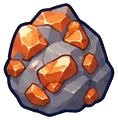
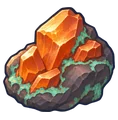
Differentiate resource artwork and retire ornamental arches and junk

diff --git a/src/render/sprites.js b/src/render/sprites.js
@@ -20,7 +20,7 @@ import { REGION_GIVERS } from '../data/regionQuests.js';
 import { RESIDENTS } from '../data/consequences.js';
 import { PORTRAIT_CROPS } from '../data/portraitcrops.js';
 import { BESTIARY_SPECIES, BESTIARY_BOSSES } from '../data/bestiary.js';
-import { OBJECTS } from '../data/objects.js';
+import { GENERATION_ONLY_SCENERY, OBJECTS } from '../data/objects.js';
 import { drawDiveSpot } from './diveart.js';
 import { drawDigSite, drawRestoreBench } from './digart.js';
 
@@ -2660,7 +2660,7 @@ const WORLD_ART = {
   'obj-stall_food': [56, 50, 16], 'obj-stall_market': [56, 50, 16], 'obj-stall_gem': [56, 50, 16],
   'obj-agility_course': [60, 48, 16], 'obj-agility_balance': [50, 34, 15], 'obj-agility_net': [46, 46, 16],
   'obj-agility_rope': [44, 46, 16], 'obj-agility_ledge': [44, 42, 16], 'obj-agility_zip': [48, 46, 16],
-  'obj-wall': [40, 36, 15], 'obj-ruin': [44, 44, 15], 'obj-fence': [40, 34, 15], 'obj-bush': [34, 30, 14],
+  'obj-wall': [40, 36, 15], 'obj-fence': [40, 34, 15], 'obj-bush': [34, 30, 14],
   'obj-flower': [28, 26, 13], ...Object.fromEntries([1, 2, 3].flatMap((n) => [[`obj-flower-${n}`, [28, 26, 13]], [`obj-bush-${n}`, [34, 30, 14]]])),
   'obj-palm': [50, 66, 15], 'obj-lamp': [24, 54, 15], 'obj-sign': [28, 38, 15],
   'obj-fishing_spot': [42, 30, 12], 'obj-rod_spot': [42, 34, 12], 'obj-sea_rod_spot': [42, 34, 12],
@@ -2707,7 +2707,7 @@ const WORLD_ART = {
   ...Object.fromEntries([0, 1, 2, 3].map((i) => [`obj-fire-${i}`, [32, 42, 14]])),
   ...Object.fromEntries([0, 1, 2, 3, 4].map((i) => [`obj-farm_patch-${i}`, [42, 36, 15]])),
   // Landmarks (landmarks.js): drawn across their footprint, a little wider than it.
-  ...Object.fromEntries(Object.entries(OBJECTS).filter(([, d]) => d.footprint).map(([id, d]) => [`obj-${id}`, [d.footprint[0] * 32 * (d.artScale || 1.1), 999, 16]])),
+  ...Object.fromEntries(Object.entries(OBJECTS).filter(([id, d]) => d.footprint && !GENERATION_ONLY_SCENERY.has(id)).map(([id, d]) => [`obj-${id}`, [d.footprint[0] * 32 * (d.artScale || 1.1), 999, 16]])),
   // Set dressing: one-tile props, most fitted in a 40 px box, a few taller or smaller.
   ...Object.fromEntries(Object.entries(OBJECTS).filter(([, d]) => d.prop).map(([id]) => [`obj-${id}`, [40, 40, 15]])),
   ...Object.fromEntries(Object.entries({
@@ -3574,30 +3574,6 @@ function scenery(ctx, objId, cx, cy, time) {
       ctx.fillStyle = '#caa15a'; rr(ctx, cx - 11, cy - 12, 22, 11, 2); ctx.fill(); line(ctx, OUTLINE, 1.5);
       ctx.strokeStyle = 'rgba(90,58,28,0.7)'; ctx.lineWidth = 1;
       ctx.beginPath(); ctx.moveTo(cx - 7, cy - 8); ctx.lineTo(cx + 7, cy - 8); ctx.moveTo(cx - 7, cy - 5); ctx.lineTo(cx + 5, cy - 5); ctx.stroke();
-      return;
-    }
-    case 'ruin': {
-      drawShadow(ctx, cx, cy + 11, 15, 4.5);
-      // fallen rubble blocks
-      ctx.fillStyle = '#9a948a';
-      rr(ctx, cx - 13, cy + 3, 9, 8, 1.5); ctx.fill(); line(ctx, OUTLINE, 1.2);
-      rr(ctx, cx + 4, cy + 5, 10, 6, 1.5); ctx.fill(); line(ctx, OUTLINE, 1.2);
-      // broken pillar with a jagged snapped top
-      ctx.fillStyle = '#aaa49a';
-      path(ctx, () => { ctx.moveTo(cx - 5, cy + 11); ctx.lineTo(cx - 5, cy - 9); ctx.lineTo(cx - 2, cy - 13); ctx.lineTo(cx + 1, cy - 8); ctx.lineTo(cx + 3, cy - 12); ctx.lineTo(cx + 4.5, cy + 11); });
-      ctx.fill(); line(ctx, OUTLINE, 1.4);
-      // shaded right face + a brighter lit left edge
-      ctx.fillStyle = 'rgba(20,20,26,0.2)'; rr(ctx, cx + 1, cy - 8, 3.5, 19, 1); ctx.fill();
-      ctx.fillStyle = 'rgba(255,255,255,0.14)'; rr(ctx, cx - 5, cy - 9, 1.6, 20, 0.8); ctx.fill();
-      // cracks + brick courses
-      ctx.strokeStyle = 'rgba(34,48,74,0.45)'; ctx.lineWidth = 0.8;
-      ctx.beginPath(); ctx.moveTo(cx - 3, cy - 5); ctx.lineTo(cx - 1, cy - 1); ctx.lineTo(cx - 3, cy + 4);
-      ctx.moveTo(cx - 5, cy + 1); ctx.lineTo(cx + 4, cy + 1); ctx.moveTo(cx - 11, cy + 7); ctx.lineTo(cx - 6, cy + 7); ctx.stroke();
-      // creeping moss
-      ctx.fillStyle = 'rgba(74,128,58,0.6)';
-      ctx.beginPath(); ctx.arc(cx - 3.5, cy + 9, 1.6, 0, Math.PI * 2); ctx.fill();
-      ctx.beginPath(); ctx.arc(cx + 8, cy + 5.5, 1.4, 0, Math.PI * 2); ctx.fill();
-      ctx.beginPath(); ctx.arc(cx - 11, cy + 4.5, 1.2, 0, Math.PI * 2); ctx.fill();
       return;
     }
     default: {

diff --git a/src/data/bestiary.js b/src/data/bestiary.js
@@ -56,7 +56,7 @@ export const BESTIARY_SPECIES = [
     look: 'A wispy figure made of reservoir water and mist, translucent teal with ripples for a face, lily pads and duckweed stuck to its flowing tail and droplets falling off its hands.' },
   // ---- Sentosa Beach ----
   { name: 'Fiddler crab', plural: 'Fiddler crabs', sprite: 'crab', color: '#e0a040', zone: 'Sentosa Beach', aggro: false, levels: [8, 20, 34],
-    drop: { id: 'seaweed', min: 1, max: 3, weight: 10 }, borrow: 'mud_crab', tint: 'sepia(1) saturate(3) hue-rotate(-10deg) brightness(1.1)',
+    drop: { id: 'coins', min: 2, max: 6, weight: 10 }, borrow: 'mud_crab', tint: 'sepia(1) saturate(3) hue-rotate(-10deg) brightness(1.1)',
     lore: 'It waves its one giant claw to impress, or to warn you off its burrow. Mostly to warn you off.',
     look: 'Tiny sand-coloured crab with a blue-and-orange shell and ONE enormous bright orange claw held up proudly (the other claw tiny), tall stalk eyes and a smug little face.' },
   { name: 'Sentosa peafowl', plural: 'Sentosa peafowl', sprite: 'fowl', color: '#2a7ab0', zone: 'Sentosa Beach', aggro: true, levels: [12, 26, 42],
@@ -215,7 +215,7 @@ export const BESTIARY_SPECIES = [
     lore: 'It has sat on the same reef for a hundred years, and its jagged shell snaps shut on careless ankles.',
     look: 'A huge scalloped clam with wavy ridged shell edges, a gleaming iridescent blue-and-turquoise mantle peeking out, a big pearl inside and two sleepy eyes.' },
   { name: 'Hawksbill turtle', plural: 'Hawksbill turtles', sprite: 'turtle', color: '#8a6a3a', zone: 'Southern Islands', aggro: false, levels: [130, 170, 212],
-    drop: { id: 'seaweed', min: 2, max: 5, weight: 10 }, borrow: 'sea_turtle', tint: 'hue-rotate(-40deg) saturate(1.3)',
+    drop: { id: 'coins', min: 4, max: 10, weight: 10 }, borrow: 'sea_turtle', tint: 'hue-rotate(-40deg) saturate(1.3)',
     lore: 'It nests on the quieter beaches of the Southern Islands. Its beak is sharp and it remembers every rude visitor.',
     look: 'Sea turtle with a gorgeous amber-and-brown tortoiseshell pattern, a narrow pointed hawk-like beak, overlapping shell plates and flippers mid-swim.' },
   { name: 'Duyung', plural: 'Duyung', sprite: 'seacreature', color: '#9ab0c0', zone: 'Southern Islands', aggro: true, levels: [140, 180, 215],
@@ -245,7 +245,7 @@ export const BESTIARY_SPECIES = [
     lore: 'Its "ko-EL! ko-EL!" starts at five in the morning and never stops. People have been driven to violence.',
     look: 'Glossy blue-black bird with piercing red eyes, a pale green beak and a long tail, beak wide open mid-shout; very loud energy.' },
   { name: 'Hyacinth tangle', plural: 'Hyacinth tangles', sprite: 'plant', color: '#6a5ac0', zone: 'Punggol Waterway', aggro: true, levels: [50, 82, 110],
-    drop: { id: 'seaweed', min: 1, max: 3, weight: 10 }, borrow: 'pitcher_plant', tint: 'hue-rotate(260deg) saturate(1.2)',
+    drop: { id: 'coins', min: 2, max: 6, weight: 10 }, borrow: 'pitcher_plant', tint: 'hue-rotate(260deg) saturate(1.2)',
     lore: 'A raft of water hyacinth that drifted down the waterway and woke up hungry.',
     look: 'A floating clump of glossy green bulb-leaves topped with pale lilac hyacinth flowers, dangling purple roots for legs and a mouth hidden in the leaves.' },
   // ---- Kranji Farmlands ----

diff --git a/src/render/icons.js b/src/render/icons.js
@@ -346,8 +346,6 @@ import { CON_TIERS, CON_WOOD } from '../data/construction.js';
   I.raw_cobia = rawFish('#5a6a72', '#8a9aa2'); I.cobia = cookedFish('#6a7a82');
   // Bait, junk & treasure
   I.fishing_bait = `<path d="M6 8 q3 -3 6 0 q3 3 6 0" fill="none" stroke="#c06a5a" stroke-width="2.4" stroke-linecap="round"/><path d="M6 13 q3 -3 6 0 q3 3 6 0" fill="none" stroke="#d8806a" stroke-width="2.4" stroke-linecap="round"/><circle cx="18.5" cy="7" r="1.1" fill="${OL}"/>`;
-  I.old_boot = `<path d="M7 5 H12 V13 L18 15 Q20 16 20 18 V20 H6 Q5 20 5 18 V7 Q5 5 7 5 Z" fill="#5a4632" stroke="${OL}" stroke-width="1.1" stroke-linejoin="round"/><path d="M6 18 H20" stroke="${C.woodDk}" stroke-width="1.4"/><path d="M8 7 H11" stroke="${C.woodHi}" stroke-width="1"/>`;
-  I.seaweed = `<path d="M9 21 C6 16 12 14 9 9 C7 5 11 4 11 3" fill="none" stroke="${C.leafDk}" stroke-width="2.2" stroke-linecap="round"/><path d="M15 21 C18 15 12 13 15 8 C17 5 14 4 14 3" fill="none" stroke="${C.leaf}" stroke-width="2.2" stroke-linecap="round"/>`;
   I.pearl = `<circle cx="12" cy="13" r="6" fill="#f0f2f5" stroke="${OL}" stroke-width="1.1"/><circle cx="10" cy="11" r="2.2" fill="#ffffff" opacity=".9"/><path d="M5 16 Q12 21 19 16" fill="none" stroke="#b6c0c8" stroke-width="1"/>`;
   I.birds_nest = `<path d="M4 13 Q12 22 20 13 Q20 18 12 19 Q4 18 4 13 Z" fill="${C.wood}" stroke="${OL}" stroke-width="1.1" stroke-linejoin="round"/><path d="M5 13 Q12 17 19 13" fill="none" stroke="${C.woodDk}" stroke-width="1"/><ellipse cx="9.5" cy="12" rx="2.2" ry="1.7" fill="#f0e7d4" stroke="${OL}" stroke-width="0.8"/><ellipse cx="14" cy="12.5" rx="2.2" ry="1.7" fill="#dfe8c0" stroke="${OL}" stroke-width="0.8"/>`;
   I.fishing_rod = `<path d="M5 20 L19 5" stroke="${C.wood}" stroke-width="2.2" stroke-linecap="round"/><path d="M19 5 L18 12" stroke="#cdd6dd" stroke-width="0.8"/><path d="M18 12 q2 1 0 3" fill="none" stroke="${OL}" stroke-width="1.2"/><circle cx="8" cy="17" r="1.6" fill="${C.gold}" stroke="${OL}" stroke-width="0.8"/>`;
@@ -841,7 +839,7 @@ import { CON_TIERS, CON_WOOD } from '../data/construction.js';
     'raw_boar_meat', 'boar_steak', 'hornbill_casque', 'qilin_mane',
     ...['giant_trevally', 'diamond_trevally', 'hybrid_grouper', 'climbing_perch', 'ikan_keli', 'belida', 'arapaima', 'arowana',
       'milkfish', 'queenfish', 'threadfin', 'white_pomfret', 'coral_trout', 'cobia'].map((f) => `raw_${f}`),
-    'fishing_rod', 'lobster_pot', 'harpoon', 'fishing_bait', 'old_boot', 'seaweed', 'pearl', 'birds_nest', 'satay', 'nasi_lemak',
+    'fishing_rod', 'lobster_pot', 'harpoon', 'fishing_bait', 'pearl', 'birds_nest', 'satay', 'nasi_lemak',
     'merlion_amulet', 'amulet_of_glory', 'mark_of_grace',
   ]);
   // Weapons of the newer classes (pistols, shurikens, canes) and scout leather: painted stickers.

diff --git a/src/render/groundtouch.js b/src/render/groundtouch.js
@@ -30,12 +30,12 @@ const WET = new Set(['Sungei Buloh Wetlands', 'MacRitchie Reservoir', 'Mandai Ra
 const DOORS = new Set(['shophouse_row_mint', 'shophouse_row_peach', 'shophouse_row_butter', 'shophouse_row_lilac',
   'golden_dome_hall', 'hdb_block', 'dragon_playground', 'hawker_centre', 'chinese_temple', 'wet_market',
   'spiky_dome_theatre', 'flower_dome', 'lifeguard_tower', 'lighthouse', 'kusu_turtle_temple', 'stilt_house',
-  'temasek_gate', 'kranji_farmhouse', 'celestial_pavilion']);
+  'kranji_farmhouse', 'celestial_pavilion']);
 // Things you stand at to use: stalls, the bank, ranges, furnaces, anvils, benches, shrines...
 const WORKED = new Set(['stall', 'bank', 'range', 'furnace', 'anvil', 'craft', 'fletch', 'herblore', 'shrine',
   'offering', 'rest', 'transport', 'gate', 'saw', 'kiln', 'build', 'homebench', 'hawkstall']);
-// Walls and ruins darken the ground at their foot (landmarks always do).
-const WALLS = new Set(['wall', 'ruin', 'fence']);
+// Walls darken the ground at their foot (landmarks always do).
+const WALLS = new Set(['wall', 'fence']);
 
 /** [width, height] (px) each touch is drawn at, its foot at the bottom centre. */
 export const TOUCH_DETAILS = {
@@ -83,7 +83,7 @@ export function touchPlan(world, tx0, ty0, tx1, ty1, opts = {}) {
       walls.push(o);
       // Moss at the foot of old walls where it's damp or wild.
       const z = world.zoneAt ? world.zoneAt(o.x, o.y) : null, zn = z ? z.name : '';
-      if ((WET.has(zn) || FOREST.has(zn) || o.objId === 'ruin') && tileHash(o.x, o.y, 1102) < 0.4 * k && ground(o.x, o.y + 1) !== null) {
+      if ((WET.has(zn) || FOREST.has(zn)) && tileHash(o.x, o.y, 1102) < 0.4 * k && ground(o.x, o.y + 1) !== null) {
         bits.push({ id: 'moss', px: o.x * TILE + 8 + tileHash(o.x, o.y, 1103) * 16, py: (o.y + 1) * TILE + 3, flip: tileHash(o.x, o.y, 1104) < 0.5, s: 0.9 });
       }
     } else if (WORKED.has(o.def.type)) {

diff --git a/src/data/objects.js b/src/data/objects.js
@@ -733,6 +733,9 @@ export const OBJECTS = {
     examine: 'A stall of your own, with a wok, a till and a queue of hungry townsfolk.' },
 };
 
+// Preserve the footprints that seeded subsequent placements in the old map.
+export const GENERATION_ONLY_SCENERY = new Set(['ruin', 'temasek_gate']);
+
 // ---------------- Landmarks and set dressing (landmarks.js places them) ----------------
 // Painted set pieces that make each region recognisable. A landmark covers a
 // `footprint` of [wide, deep] tiles, standing on its front-left tile, and
@@ -812,7 +815,6 @@ const PROPS = {
   kelong_net: ['Drying net', 'A fishing net hung up to dry between two poles.'],
   kelong_stilts: ['Kelong stilts', 'Rope-bound stilts, all that is left of an old kelong.'],
   buoy_pile: ['Buoys', 'A heap of floats and a coil of rope.'],
-  crab_trap: ['Crab trap', 'A woven trap. Someone is home.'],
   boardwalk: ['Boardwalk', 'Planks out over the water.'],
   boardwalk_corner: ['Boardwalk', 'The boardwalk turns here.'],
   trail_signpost: ['Trail signpost', 'Signs to the summit, the stream and the valley.'],
@@ -822,7 +824,6 @@ const PROPS = {
   hay_bale: ['Hay bale', 'A round bale of golden hay.'],
   water_trough: ['Water trough', 'A stone trough with a tap, for the goats.'],
   durian_cart: ['Durian cart', 'A cart of durians. You can smell it from here.'],
-  fish_rack: ['Fish rack', 'Fish drying in the sun on a bamboo rack.'],
   oil_drums: ['Oil drums', 'Rusty drums stacked on the wharf.'],
   mooring_bollard: ['Mooring bollard', 'An iron bollard with a heavy rope round it.'],
   broken_pillar: ['Broken pillar', 'A carved pillar, broken off and wrapped in vines.'],

diff --git a/src/game/save.js b/src/game/save.js
@@ -299,6 +299,7 @@ export function loadGame(game) {
     return false;
   }
   try {
+    exchangeRetiredLoot(data);
     loadFields(game, data);
     loadFirstJourney(game, data.firstJourney);
     game.islandLife = data.islandLife ? restoreIslandLife(data.islandLife) : undefined;
@@ -311,6 +312,31 @@ export function loadGame(game) {
     throw err;
   }
   return true;
+}
+
+// Retired fishing junk is exchanged at its coin value. Send the player's
+// copies to the bank so even a full pack can load without losing anything.
+function exchangeRetiredLoot(data) {
+  let credited = 0;
+  const remove = (entry) => {
+    if (entry?.id !== 'old_boot' && entry?.id !== 'seaweed') return entry;
+    if (Number.isFinite(entry.qty) && entry.qty > 0) credited += Math.floor(entry.qty) * (entry.id === 'seaweed' ? 2 : 1);
+    return null;
+  };
+  if (Array.isArray(data.inventory)) data.inventory = data.inventory.map(remove);
+  if (Array.isArray(data.bank)) data.bank = data.bank.map(remove).filter(Boolean);
+  if (Array.isArray(data.home?.chest)) data.home.chest = data.home.chest.map(remove).filter(Boolean);
+  if (credited) {
+    if (!Array.isArray(data.bank)) data.bank = [];
+    data.bank.push({ id: 'coins', qty: credited });
+  }
+
+  const grave = data.play?.grave;
+  if (Array.isArray(grave?.items)) {
+    credited = 0;
+    grave.items = grave.items.map(remove).filter(Boolean);
+    if (credited) grave.coins = Math.max(0, Number(grave.coins) || 0) + credited;
+  }
 }
 
 function loadFields(game, data) {

diff --git a/src/data/world.js b/src/data/world.js
@@ -4,6 +4,7 @@
 
 import { NPCS, MONSTER_IDS, BOSS_IDS, EXTRA_MONSTER_IDS, EXTRA_BOSS_IDS, MORE_MONSTER_IDS, MORE_BOSS_IDS, stretchLevel } from './npcs.js';
 import { STATIONS } from './transport.js';
+import { GENERATION_ONLY_SCENERY } from './objects.js';
 import { placeLandmarks } from './landmarks.js';
 import { placeGroves, QUARRY_PLAN } from './groves.js';
 import { assignFishSpots } from './fishspots.js';
@@ -1501,12 +1502,14 @@ export function buildWorld({ groves: withGroves = true } = {}) {
     width: W,
     height: H,
     terrain,
-    objects,
+    // The old arches still reserve the same sites during seeded world
+    // generation. Drop them before play so removing scenery shifts no nodes.
+    objects: objects.filter((o) => !GENERATION_ONLY_SCENERY.has(o.objId)),
     npcSpawns,
     zones,
     towns,   // the outer towns' rectangles (the World Boss keeps its distance)
     resourceZones,   // named places dense with one life skill's nodes (see the block above the border fence)
-    landmarks,       // the regions' set pieces, { objId, x, y, region } (landmarks.js)
+    landmarks: landmarks.filter((o) => !GENERATION_ONLY_SCENERY.has(o.objId)), // the regions' set pieces, { objId, x, y, region } (landmarks.js)
     groves,          // patches thick with one kind of tree, or of rock (kind 'quarry'), { id, name, objId, kind, region, cx, cy, x0..y1, count } (groves.js)
     spawnPoint: { x: 58, y: 55 },
     respawnPoint: { x: 58, y: 55 },

diff --git a/src/data/landmarks.js b/src/data/landmarks.js
@@ -51,7 +51,7 @@ export const LANDMARK_PLAN = [
     props: [['orchid_planter', 3], ['topiary', 3], ['bay_bench', 1]] },
   { region: 'Changi Coast', at: [290, 40], reach: 20,
     lm: [['kelong', 'water']],
-    props: [['sampan', 2, 'water'], ['kelong_stilts', 2, 'water'], ['kelong_net', 2, 'shore'], ['buoy_pile', 1, 'shore'], ['crab_trap', 2, 'shore']] },
+    props: [['sampan', 2, 'water'], ['kelong_stilts', 2, 'water'], ['kelong_net', 2, 'shore'], ['buoy_pile', 1, 'shore']] },
   { region: 'Sentosa Beach', at: [60, 95], reach: 34,
     lm: [['lifeguard_tower', 'sand']],
     props: [['beach_umbrella_red', 2, 'sand'], ['beach_umbrella_teal', 2, 'sand'], ['deck_chair', 3, 'sand'], ['leaning_palm', 2, 'sand'], ['surf_rack', 1, 'sand']] },
@@ -61,7 +61,7 @@ export const LANDMARK_PLAN = [
     lm: ['kusu_turtle_temple'] },
   { region: 'Pulau Ubin', at: [190, 44], reach: 18,
     lm: ['stilt_house'],
-    props: [['rattan_chair', 1], ['bicycle', 1], ['durian_cart', 1], ['fish_rack', 1, 'shore'], ['laundry_pole', 1]] },
+    props: [['rattan_chair', 1], ['bicycle', 1], ['durian_cart', 1], ['laundry_pole', 1]] },
   { region: 'MacRitchie Reservoir', at: [36, 52], reach: 18,
     props: [['boardwalk', 2, 'water'], ['boardwalk_corner', 1, 'water']] },
   { region: 'MacRitchie Reservoir', at: [26, 74], reach: 18,

diff --git a/src/data/items.js b/src/data/items.js
@@ -352,10 +352,8 @@ const RAW = {
   fish_head_curry: { name: 'Fish head curry', icon: '🍛', value: 1200, heal: 34, meal: { ms: 180000, fx: { boss: 0.12, reduce: 0.05 } }, artFrom: ['seafood_stew', 'sepia(0.5) saturate(2) hue-rotate(-25deg)'],
     examine: 'A whole fish head in a fiery curry. Heals 34; for 3 minutes +12% damage to bosses and champions and 5% less damage taken.' },
 
-  // ---- Fishing bait, junk & treasure ----
+  // ---- Fishing bait & treasure ----
   fishing_bait: { name: 'Fishing bait', icon: '🪱', value: 2, stackable: true, tags: ['bait'], examine: 'Improves your catch rate when fishing.' },
-  old_boot: { name: 'Old boot', icon: '🥾', value: 1, examine: 'You fished up someone\'s old boot. Charming.' },
-  seaweed: { name: 'Seaweed', icon: '🌿', value: 2, examine: 'A clump of soggy seaweed.' },
   pearl: { name: 'Pearl', icon: '🦪', value: 600, examine: 'A lustrous pearl from an oyster.' },
   birds_nest: { name: "Bird's nest", icon: '🪺', value: 0, examine: 'Knocked from a tree while chopping — open it for a surprise.' },
 

diff --git a/src/game/skilling.js b/src/game/skilling.js
@@ -331,15 +331,15 @@ export function resolveFish(game, action) {
   return true; // fishing spots never deplete
 }
 
-// A small chance while fishing to pull up junk or treasure (incl. a
+// A small chance while fishing to pull up spare change or treasure (incl. a
 // message-in-a-bottle clue scroll) — keeps fishing lively and rewarding.
 function fishOddity(game, obj) {
   const fc = objCenter(obj);
   game.spawnPoof(fc.x, fc.y, '#bfe3ff');
   const r = Math.random();
   if (r < 0.4) {
-    const junk = Math.random() < 0.5 ? 'old_boot' : 'seaweed';
-    if (game.inventory.canAdd(junk, 1) > 0) { game.inventory.add(junk, 1); game.msg(`You fish up some ${getItem(junk).name.toLowerCase()}. Charming.`); }
+    const coins = Math.random() < 0.5 ? 1 : 2;
+    if (game.inventory.add('coins', coins)) game.msg('A little loose change comes up with your catch.');
   } else if (r < 0.85) {
     if (Math.random() < 0.35 && game.inventory.canAdd('pearl', 1) > 0) {
       game.inventory.add('pearl', 1); game.skills.addXp('fishing', 25);

diff --git a/src/data/npcs.js b/src/data/npcs.js
@@ -372,7 +372,7 @@ const MORE_BASES = [
   ['Kancil', 'beast', '#b08050', 'Pulau Ubin', false, [6, 16, 32], { id: 'raw_venison', weight: 14 }],
   ['Kunang-kunang', 'wisp', '#d8f070', 'Pulau Ubin', true, [10, 24, 42], null],
   ['Shore pit viper', 'serpent', '#5a9a4a', 'Sungei Buloh Wetlands', true, [15, 32, 52], null],
-  ['Mangrove terrapin', 'turtle', '#6a7a4a', 'Sungei Buloh Wetlands', false, [12, 28, 48], { id: 'seaweed', min: 1, max: 3, weight: 10 }],
+  ['Mangrove terrapin', 'turtle', '#6a7a4a', 'Sungei Buloh Wetlands', false, [12, 28, 48], { id: 'coins', min: 2, max: 6, weight: 10 }],
   ['Lumpur slime', 'slime', '#6a5a3a', 'Sungei Buloh Wetlands', false, [10, 26, 45], { id: 'clay', min: 1, max: 4, weight: 12 }],
   ['Colugo', 'bat', '#8a7a6a', 'Jurong Forest', false, [22, 40, 62], null],
   ['Forest scorpion', 'scorpion', '#2a2a3a', 'Jurong Forest', true, [28, 48, 72], null],

diff --git a/src/render/critters.js b/src/render/critters.js
@@ -22,7 +22,7 @@ const WINGS = ['#F5B82E', '#EF476F', '#5FAEE3', '#FFFFFF', '#B98AE8', '#FF9F6A']
 const JUNGLE = new Set(['Bukit Timah', 'Jurong Forest', 'Mandai Rainforest', 'Sungei Buloh Wetlands',
   'MacRitchie Reservoir', 'Pulau Ubin', 'Kranji Farmlands', 'Gardens by the Bay', 'Punggol Waterway']);
 const GRIM = new Set(['The Wilderness', 'Pulau Hantu', 'Tekong Badlands', 'The Shadow Rift']);
-const PERCH = new Set(['wall', 'ruin', 'bank', 'stall', 'transport', 'lamp', 'shrine']);
+const PERCH = new Set(['wall', 'bank', 'stall', 'transport', 'lamp', 'shrine']);
 // Where the bluebottle flits (in its own colours, flapping through its painted loop).
 const BLUEBOTTLE = new Set(['Kampong Glam', 'Chinatown', 'Marina Bay', 'Gardens by the Bay', 'Pulau Ubin', 'Kranji Farmlands']);
 const FLAP_MS = 90;     // a butterfly's or sunbird's wingbeat frame
